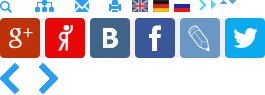
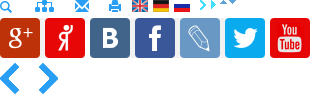
some fix

diff --git a/code/index_css.html b/code/index_css.html
@@ -33,7 +33,9 @@
 		height: 422,
 		items: 1,
 		scroll: {
-		    items: 1
+		    items: 1, 
+                    fx:'fade', 
+                    duration:1200
 		}
 	    });
 
@@ -106,12 +108,12 @@
 	<div class="slider">
 	    <section class="submenu">
 		<hgroup>
-		    <h3 class="submenu__title">Теплообменники </h3>
+		    <h3 class="submenu__title">Витые теплообменники </h3>
 		    <h3 class="submenu__title">Турбодетандерные агрегаты</h3>
 		</hgroup>
 		<ul class="submenu-list">
-		    <li class="submenu-list__item"><a class="link" href="#">Низкотемпературная сепарация ПГ (УНТС)</a></li>
-		    <li class="submenu-list__item"><a class="link" href="#">Утилизация и переработка ПНГ</a></li>
+		    <li class="submenu-list__item"><a class="link" href="#">Установки сепарации природного газа</a></li>
+		    <li class="submenu-list__item"><a class="link" href="#">Установки переработки ПНГ</a></li>
 		    <li class="submenu-list__item"><a class="link" href="#">Ожижители ПГ</a></li>
 		    <li class="submenu-list__item"><a class="link" href="#">Детандер-генераторы</a></li>
 		    <li class="submenu-list__item"><a class="link" href="#">Воздухоразделительные установки</a></li>
@@ -122,7 +124,7 @@
 	    </section>
 
 
-	    <ul class="slides" id="slides-list">
+	  <ul class="slides" id="slides-list">
 		<li class="slide">
 		    <img class="slide__image" src="images/content/slide1.jpg" alt="" title="" />
 		    <h2 class="slide__title">Расчет и проектирование</h2>
@@ -130,7 +132,12 @@
 		</li>
 		<li class="slide">
 		    <img class="slide__image" src="images/content/slide2.jpg" alt="" title="" />
-		    <h2 class="slide__title">Проектирование</h2>
+		    <h2 class="slide__title">Производство и испытания</h2>
+		    <a class="btn btn_order" href="#">Заказать оборудование</a>
+		</li>
+		<li class="slide">
+		    <img class="slide__image" src="images/content/slide3.jpg" alt="" title="" />
+		    <h2 class="slide__title">Монтаж и обслуживание</h2>
 		    <a class="btn btn_order" href="#">Заказать оборудование</a>
 		</li>
 	    </ul>
@@ -150,19 +157,9 @@
 		    <div class="aside-block">
 			<section class="submenu">
 			    <hgroup>
-				<h3 class="submenu__title">Теплообменники </h3>
+				<h3 class="submenu__title">Витые теплообменники </h3>
 				<h3 class="submenu__title">Турбодетандерные агрегаты</h3>
-			    </hgroup>
-			    <ul class="submenu-list">
-				<li class="submenu-list__item"><a class="link" href="#">Низкотемпературная сепарация ПГ (УНТС)</a></li>
-				<li class="submenu-list__item"><a class="link" href="#">Утилизация и переработка ПНГ</a></li>
-				<li class="submenu-list__item"><a class="link" href="#">Ожижители ПГ</a></li>
-				<li class="submenu-list__item"><a class="link" href="#">Детандер-генераторы</a></li>
-				<li class="submenu-list__item"><a class="link" href="#">Воздухоразделительные установки</a></li>
-				<li class="submenu-list__item"><a class="link" href="#">Воздушные холодильные машины</a></li>
-				<li class="submenu-list__item"><a class="link" href="#">Ожижители азота</a></li>
-				<li class="submenu-list__item"><a class="link" href="#">Ожижители водорода</a></li>
-			    </ul>
+			    </hgroup>			   
 			</section>
 		    </div>
 
@@ -344,7 +341,7 @@
 	</section>
 
 	<div class="copyright">
-	    2013&copy; Cryomash  <a  href="mailto:info@cryomash.com">info@cryomash.com</a>
+	    2013&copy; Криомаш  <a  href="mailto:info@cryomash.com">info@cryomash.com</a>
 	</div>
 
 	<div class="address">
@@ -359,6 +356,7 @@
 	    <li class="social__item"><a href="#"><i class="ico ico_social ico_fb"></i></a></li>
 	    <li class="social__item"><a href="#"><i class="ico ico_social ico_lj"></i></a></li>
 	    <li class="social__item"><a href="#"><i class="ico ico_social ico_tw"></i></a></li>
+	    <li class="social__item"><a href="#"><i class="ico ico_social ico_youtube"></i></a></li>
 	</ul>
 
 

diff --git a/code/index.html b/code/index.html
@@ -109,12 +109,12 @@
 	<div class="slider">
 	    <section class="submenu">
 		<hgroup>
-		    <h3 class="submenu__title">Теплообменники </h3>
+		    <h3 class="submenu__title">Витые теплообменники</h3>
 		    <h3 class="submenu__title">Турбодетандерные агрегаты</h3>
 		</hgroup>
 		<ul class="submenu-list">
-		    <li class="submenu-list__item"><a class="link" href="#">Низкотемпературная сепарация ПГ (УНТС)</a></li>
-		    <li class="submenu-list__item"><a class="link" href="#">Утилизация и переработка ПНГ</a></li>
+		    <li class="submenu-list__item"><a class="link" href="#">Установки сепарации природного газа</a></li>
+		    <li class="submenu-list__item"><a class="link" href="#">Установки переработки ПНГ</a></li>
 		    <li class="submenu-list__item"><a class="link" href="#">Ожижители ПГ</a></li>
 		    <li class="submenu-list__item"><a class="link" href="#">Детандер-генераторы</a></li>
 		    <li class="submenu-list__item"><a class="link" href="#">Воздухоразделительные установки</a></li>
@@ -133,12 +133,17 @@
 		</li>
 		<li class="slide">
 		    <img class="slide__image" src="images/content/slide2.jpg" alt="" title="" />
-		    <h2 class="slide__title">Проектирование</h2>
+		    <h2 class="slide__title">Производство и испытания</h2>
+		    <a class="btn btn_order" href="#">Заказать оборудование</a>
+		</li>
+		<li class="slide">
+		    <img class="slide__image" src="images/content/slide3.jpg" alt="" title="" />
+		    <h2 class="slide__title">Монтаж и обслуживание</h2>
 		    <a class="btn btn_order" href="#">Заказать оборудование</a>
 		</li>
 	    </ul>
 	</div>
-	<div class="">
+	
         <div class="main">
 	    <div class="columns">
 		<div class="column-content column-content_home">
@@ -178,20 +183,22 @@
 				</li>
 				<li class="logos-list__item">
 				    <a href="#" class="link"><img class="logo-image" src="images/logos/client2.jpg" alt="" title="" /></a>
-				</li>
-				<li class="logos-list__item">
-				    <a href="#" class="link"><img class="logo-image" src="images/logos/enter.jpg" alt="enter-svyaznoy" title="enter-svyaznoy" /></a>
-				</li>
+				</li>				
 				<li class="logos-list__item">
 				    <a href="#" class="link"><img class="logo-image" src="images/logos/client3.jpg" alt="" title="" /></a>
 				</li>
 				<li class="logos-list__item">
 				    <a href="#" class="link"><img class="logo-image" src="images/logos/client4.jpg" alt="" title="" /></a>
+				</li>				
+				<li class="logos-list__item">
+				    <a href="#" class="link"><img class="logo-image" src="images/logos/client5.jpg" alt="" title="" /></a>
 				</li>
 				<li class="logos-list__item">
-				    <a href="#" class="link"><img class="logo-image" src="images/logos/havasdigital.jpg" alt="havasdigital" title="havasdigital" /></a>
+				    <a href="#" class="link"><img class="logo-image" src="images/logos/client6.jpg" alt="" title="" /></a>
 				</li>
-
+				<li class="logos-list__item">
+				    <a href="#" class="link"><img class="logo-image" src="images/logos/client7.jpg" alt="" title="" /></a>
+				</li>
 			    </ul>
 			    <ins class="logos-carousel__gradient-left"></ins>
 			    <ins class="logos-carousel__gradient-right"></ins>
@@ -284,7 +291,7 @@
 	</section>
 
 	<div class="copyright">
-	    2013&copy; Cryomash  <a  href="mailto:info@cryomash.com">info@cryomash.com</a>
+	    2013&copy; Криомаш  <a  href="mailto:info@cryomash.com">info@cryomash.com</a>
 	</div>
 
 	<div class="address">
@@ -299,6 +306,7 @@
 	    <li class="social__item"><a href="#"><i class="ico ico_social ico_fb"></i></a></li>
 	    <li class="social__item"><a href="#"><i class="ico ico_social ico_lj"></i></a></li>
 	    <li class="social__item"><a href="#"><i class="ico ico_social ico_tw"></i></a></li>
+	    <li class="social__item"><a href="#"><i class="ico ico_social ico_youtube"></i></a></li>
 	</ul>
 
 

diff --git a/code/index_list.html b/code/index_list.html
@@ -32,7 +32,9 @@
 		height: 422,
 		items: 1,
 		scroll: {
-		    items: 1
+		    items: 1, 
+                    fx:'fade', 
+                    duration:1200
 		}
 	    });
 
@@ -104,12 +106,12 @@
 	<div class="slider">
 	    <section class="submenu">
 		<hgroup>
-		    <h3 class="submenu__title">Теплообменники </h3>
+		    <h3 class="submenu__title">Витые теплообменники </h3>
 		    <h3 class="submenu__title">Турбодетандерные агрегаты</h3>
 		</hgroup>
 		<ul class="submenu-list">
-		    <li class="submenu-list__item"><a class="link" href="#">Низкотемпературная сепарация ПГ (УНТС)</a></li>
-		    <li class="submenu-list__item"><a class="link" href="#">Утилизация и переработка ПНГ</a></li>
+		    <li class="submenu-list__item"><a class="link" href="#">Установки сепарации природного газа</a></li>
+		    <li class="submenu-list__item"><a class="link" href="#">Установки переработки ПНГ</a></li>
 		    <li class="submenu-list__item"><a class="link" href="#">Ожижители ПГ</a></li>
 		    <li class="submenu-list__item"><a class="link" href="#">Детандер-генераторы</a></li>
 		    <li class="submenu-list__item"><a class="link" href="#">Воздухоразделительные установки</a></li>
@@ -128,7 +130,12 @@
 		</li>
 		<li class="slide">
 		    <img class="slide__image" src="images/content/slide2.jpg" alt="" title="" />
-		    <h2 class="slide__title">Проектирование</h2>
+		    <h2 class="slide__title">Производство и испытания</h2>
+		    <a class="btn btn_order" href="#">Заказать оборудование</a>
+		</li>
+		<li class="slide">
+		    <img class="slide__image" src="images/content/slide3.jpg" alt="" title="" />
+		    <h2 class="slide__title">Монтаж и обслуживание</h2>
 		    <a class="btn btn_order" href="#">Заказать оборудование</a>
 		</li>
 	    </ul>
@@ -148,19 +155,9 @@
 		    <div class="aside-block">
 			<section class="submenu">
 			    <hgroup>
-				<h3 class="submenu__title">Теплообменники </h3>
+				<h3 class="submenu__title">Витые теплообменники </h3>
 				<h3 class="submenu__title">Турбодетандерные агрегаты</h3>
-			    </hgroup>
-			    <ul class="submenu-list">
-				<li class="submenu-list__item"><a class="link" href="#">Низкотемпературная сепарация ПГ (УНТС)</a></li>
-				<li class="submenu-list__item"><a class="link" href="#">Утилизация и переработка ПНГ</a></li>
-				<li class="submenu-list__item"><a class="link" href="#">Ожижители ПГ</a></li>
-				<li class="submenu-list__item"><a class="link" href="#">Детандер-генераторы</a></li>
-				<li class="submenu-list__item"><a class="link" href="#">Воздухоразделительные установки</a></li>
-				<li class="submenu-list__item"><a class="link" href="#">Воздушные холодильные машины</a></li>
-				<li class="submenu-list__item"><a class="link" href="#">Ожижители азота</a></li>
-				<li class="submenu-list__item"><a class="link" href="#">Ожижители водорода</a></li>
-			    </ul>
+			    </hgroup>			   
 			</section>
 		    </div>
 
@@ -275,7 +272,7 @@
 	</section>
 
 	<div class="copyright">
-	    2013&copy; Cryomash  <a  href="mailto:info@cryomash.com">info@cryomash.com</a>
+	    2013&copy; Криомаш  <a  href="mailto:info@cryomash.com">info@cryomash.com</a>
 	</div>
 
 	<div class="address">
@@ -290,6 +287,7 @@
 	    <li class="social__item"><a href="#"><i class="ico ico_social ico_fb"></i></a></li>
 	    <li class="social__item"><a href="#"><i class="ico ico_social ico_lj"></i></a></li>
 	    <li class="social__item"><a href="#"><i class="ico ico_social ico_tw"></i></a></li>
+	    <li class="social__item"><a href="#"><i class="ico ico_social ico_youtube"></i></a></li>
 	</ul>
 
 

diff --git a/code/css/styles.css b/code/css/styles.css
@@ -100,7 +100,9 @@ body {
 }
 .ico_tw {
   background-position: -225px -18px;
-
+}
+.ico_youtube {
+  background-position: -270px -18px;
 }
 
 
